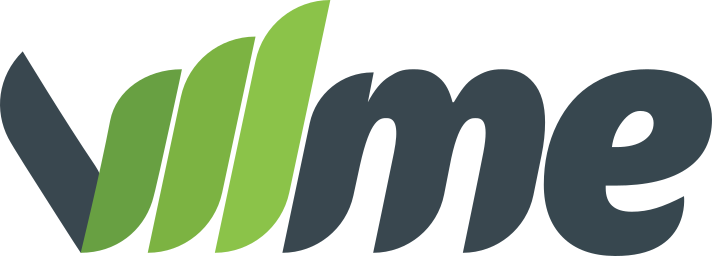
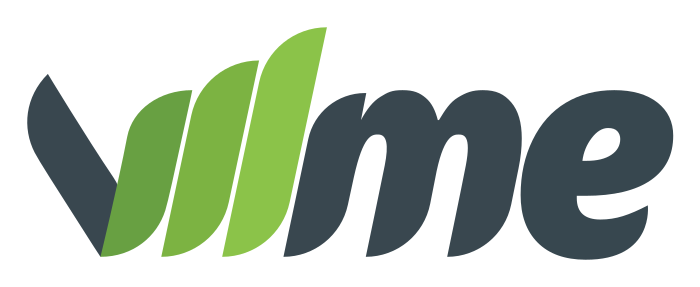
update preview image (add more spacing)

Changed region(s): [[0.0, 0.0, 1.0, 1.0]]

diff --git a/web/public/index.html b/web/public/index.html
@@ -15,13 +15,13 @@
     <title>VIIME</title>
 
     <meta name="description"
-      content="VIIME (Visualization and Integration of Metabolomics Experiments) provides a new workflow for metabolomics research by offering state-of-the-art integration algorithms and visualizations." />
-    <meta property="og:image:height" content="256" />
-    <meta property="og:image:width" content="712" />
+      content="VIIME (VIsualization and Integration of Metabolomics Experiments) provides a new workflow for metabolomics research by offering state-of-the-art integration algorithms and visualizations." />
+    <meta property="og:image:height" content="287" />
+    <meta property="og:image:width" content="700" />
     <meta property="og:title" content="VIIME" />
     <meta property="og:site_name" content="VIIME" />
     <meta property="og:description"
-      content="VIIME (Visualization and Integration of Metabolomics Experiments) provides a new workflow for metabolomics research by offering state-of-the-art integration algorithms and visualizations." />
+      content="VIIME (VIsualization and Integration of Metabolomics Experiments) provides a new workflow for metabolomics research by offering state-of-the-art integration algorithms and visualizations." />
     <meta property="og:url" content="https://viime.org" />
     <meta property="og:image" content="https://viime.org/preview.png" />
 
@@ -29,7 +29,7 @@
     <!-- Schema.org markup for Google+ -->
     <meta itemprop="name" content="VIIME" />
     <meta itemprop="description"
-      content="VIIME (Visualization and Integration of Metabolomics Experiments) provides a new workflow for metabolomics research by offering state-of-the-art integration algorithms and visualizations." />
+      content="VIIME (VIsualization and Integration of Metabolomics Experiments) provides a new workflow for metabolomics research by offering state-of-the-art integration algorithms and visualizations." />
     <meta itemprop="image" content="https://viime.org/preview.png" />
 
 
@@ -38,7 +38,7 @@
     <meta name="twitter:site" content="@kitware" />
     <meta name="twitter:title" content="VIIME" />
     <meta name="twitter:description"
-      content="VIIME (Visualization and Integration of Metabolomics Experiments) provides a new workflow for metabolomics research by offering state-of-the-art integration algorithms and visualizations." />
+      content="VIIME (VIsualization and Integration of Metabolomics Experiments) provides a new workflow for metabolomics research by offering state-of-the-art integration algorithms and visualizations." />
     <meta name="twitter:creator" content="@kitware" />
     <meta name="twitter:image:src" content="https://viime.org/preview.png" />
   </head>
